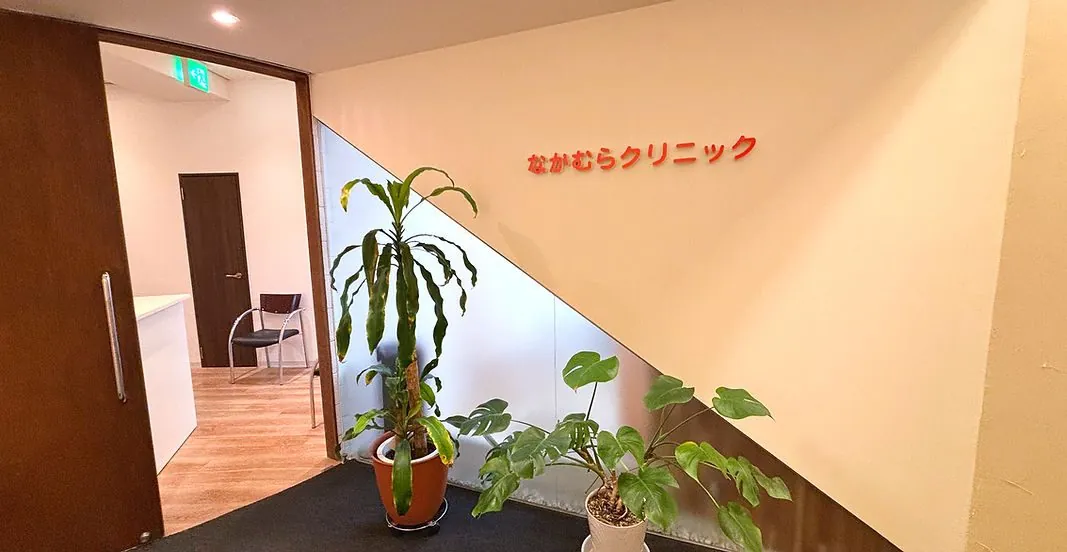
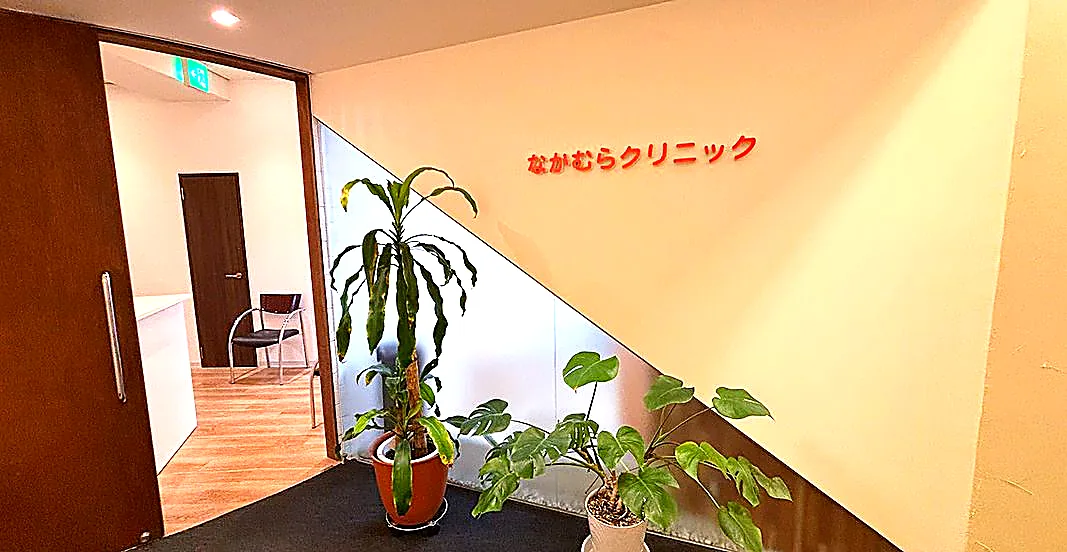
Refinement pass: 体×心 identity, ring bugfix, radical de-noise
Per Keeyo's direction:
- BADGE FIX: background shorthand was resetting background-clip — the
  filled badges' rings never rendered. Switched to background-color;
  rings + notches now visible. Badge kanji realigned: 体(内科)×心(精神科)
  across hero/cards/footer/doc-panel; 精神科 card title de-parenthesized.
- DE-NOISE: card chips removed; booking rule consolidated to ONE place
  (はじめて受診される方へ: 金曜・水曜午後・土曜午後は完全予約制); fever/
  vaccine notes digit-free; hours note plain; 代表電話 1568 removed from
  the site entirely; phone now appears at exactly 7 dialable action
  points, zero explanatory repeats.
- PHOTOS: entrance + waiting enhanced (exposure/contrast/vibrance/
  sharpness); facade retired from the page; og.jpg rebuilt from the
  entrance sign shot; waiting-band caption removed (photo speaks).
- COPY: doc quote broadened from sleep to the USP: からだとこころ、
  分けずに話せる診察室です。; why-tile-2 slimmed.
- MOBILE: sticky bar rebalanced (single-line 地図 / 1:1.7 split).

diff --git a/index.html b/index.html
@@ -109,8 +109,8 @@
   <section class="hero">
     <div class="wrap hero-grid">
       <div>
-        <div class="roundels" role="img" aria-label="内科とこころ、ひとつのクリニックで">
-          <span class="roundel r-nai">内</span>
+        <div class="roundels" role="img" aria-label="からだとこころ、ひとつのクリニックで">
+          <span class="roundel r-nai">体</span>
           <span class="roundel-link"></span>
           <span class="roundel r-shin">心</span>
         </div>
@@ -148,7 +148,7 @@
   <section class="why">
     <div class="wrap why-grid">
       <div class="why-tile"><span class="tick"></span><h3>ひとつの受付で、どちらも。</h3><p>内科も、精神科も、同じ受付・同じ待合です。動悸や眠れないなど、からだにあらわれるサインも、そのままご相談いただけます。</p></div>
-      <div class="why-tile"><span class="tick"></span><h3>予約なしで立ち寄れる</h3><p>昼休みや外出の合間に、そのまま。金曜など一部の枠は完全予約制です（受付は17:45まで）。</p></div>
+      <div class="why-tile"><span class="tick"></span><h3>予約なしで立ち寄れる</h3><p>昼休みや外出の合間に、そのまま。※ 金曜など一部の枠は完全予約制です。</p></div>
       <div class="why-tile"><span class="tick"></span><h3><span class="nowrap">本町駅</span>から<span class="nowrap num">徒歩3分</span></h3><p>カネセ中央ビル1階。通りに面した、入りやすい入口です。</p></div>
     </div>
   </section>
@@ -162,23 +162,21 @@
       </div>
       <div class="care-grid">
         <div class="care-card c-nai">
-          <div class="care-head"><span class="care-glyph">内</span><h3>一般内科</h3></div>
+          <div class="care-head"><span class="care-glyph">体</span><h3>一般内科</h3></div>
           <ul>
             <li>かぜなどの体調不良（発熱の方は「発熱外来」へ）</li>
             <li>生活習慣病（高血圧・糖尿病・脂質異常症）</li>
             <li>健診後のフォロー・健康相談</li>
           </ul>
-          <span class="chip chip-note">予約なしで受診できます（金曜など一部の枠は予約制）</span>
         </div>
         <div class="care-card c-shin">
-          <div class="care-head"><span class="care-glyph">心</span><h3>こころのご相談（精神科）</h3></div>
+          <div class="care-head"><span class="care-glyph">心</span><h3>精神科</h3></div>
           <ul>
             <li>眠れない・疲れが取れない</li>
             <li>気分が沈む・意欲が出ない</li>
             <li>休職・復職のご相談（診断書に対応）</li>
           </ul>
           <p class="safety-line">受付も待合も、内科と同じです。内科にかかるのと同じように、そのままお越しください。</p>
-          <span class="chip chip-note">お電話でのご予約がスムーズです（内科と同じ番号です）</span>
         </div>
         <div class="care-bridge">同じ院内で、同じ日に。</div>
         <div class="care-card c-netsu care-mini">
@@ -188,7 +186,7 @@
             <li>受診の流れをお電話でご案内します</li>
             <li>院内の動線に配慮して対応します</li>
           </ul>
-          <a class="note-row note-call" href="tel:0662450378">来院前に、まずお電話ください　<span class="num">06-6245-0378</span></a>
+          <div class="note-row">来院前に、まずお電話ください</div>
         </div>
         <div class="care-card c-bou care-mini">
           <div class="care-head"><span class="care-glyph">防</span><h3>各種予防接種</h3></div>
@@ -196,7 +194,7 @@
             <li>インフルエンザなど各種ワクチン</li>
             <li>種類により在庫の確認が必要です</li>
           </ul>
-          <a class="note-row note-call" href="tel:0662450378">在庫確認のため、まずお電話ください　<span class="num">06-6245-0378</span></a>
+          <div class="note-row">在庫の確認のため、事前にお電話ください</div>
         </div>
       </div>
       <p class="care-scope">症状やご相談内容に応じて、適切な医療機関のご紹介も行います。</p>
@@ -210,7 +208,6 @@
       <source srcset="photos/waiting.webp" type="image/webp">
       <img src="photos/waiting.jpg" width="1067" height="552" alt="なかむらクリニックの待合スペース。白い長椅子と木のテーブル、観葉植物のある明るい空間" loading="lazy">
     </picture>
-    <div class="caption">待合スペース — 昼休みに立ち寄れる、明るい待合です</div>
   </section>
 
   <!-- 5. 診療時間 -->
@@ -274,13 +271,14 @@
           <ul class="hours-notes">
             <li>受付は17:45まで、診察は18:00までです</li>
             <li>土曜日は第2・第4週のみ、午前は10:00から診療します</li>
-            <li>「●完全予約制」の枠では内科・精神科いずれも診療しています（<a class="note-tel" href="tel:0662450378">お電話 06-6245-0378</a> でご予約ください）</li>
+            <li>「●完全予約制」の枠では内科・精神科いずれも診療しています（お電話でご予約ください）</li>
             <li>予約なしでもそのままご来院いただけます（ご予約の方優先）</li>
             <li>休診：木曜・日曜・祝日</li>
           </ul>
           <div class="first-visit">
             <h3>はじめて受診される方へ</h3>
             <ul>
+              <li>予約なしでも受診できます（金曜・水曜午後・土曜午後は完全予約制です）</li>
               <li>保険証（マイナ保険証）をご持参ください</li>
               <li>お薬手帳や健診結果があれば、あわせてお持ちください</li>
               <li>ご予約のお電話で、症状をくわしくお話しいただく必要はありません。ご希望の日時だけでも結構です</li>
@@ -315,15 +313,15 @@
       <div class="doc-body">
         <p class="doc-ruby">いしかわ よしひろ</p>
         <p><span class="doc-name">院長　石川 賀弘</span><span class="doc-chip">内科</span></p>
-        <p class="pull-line">体調の相談のついでに、眠りのことも話せる場所に。</p>
+        <p class="pull-line">からだとこころ、分けずに話せる診察室です。</p>
         <p>お待たせしないこと。そして、診察を急がせないこと。はたらく皆さまが通いやすいクリニックであるために、この2つを大切にしています。</p>
         <p>血圧や血糖の数値のことも、最近眠れないことも、どちらも同じ受付から。気になっていることを、そのままお話しください。</p>
         <div class="doc-sub"><span class="n">精神科 担当医</span><span class="doc-chip" style="margin-left:0">精神科</span></div>
         <p class="doc-sub-line">精神科の診療は、担当医がじっくりお話をうかがいます。話す順番も、うまくまとまっているかも、気にしなくて大丈夫。内科の診察から、同じ院内でそのままご相談いただくこともできます。</p>
       </div>
       <aside class="doc-panel" aria-hidden="true">
-        <div class="roundels"><span class="roundel r-nai">内</span><span class="roundel-link"></span><span class="roundel r-shin">心</span></div>
-        <p class="doc-panel-quote">体調の相談のついでに、<br>眠りのことも話せる場所に。</p>
+        <div class="roundels"><span class="roundel r-nai">体</span><span class="roundel-link"></span><span class="roundel r-shin">心</span></div>
+        <p class="doc-panel-quote">からだとこころ、<br>分けずに話せる診察室です。</p>
       </aside>
       </div>
     </div>
@@ -337,12 +335,7 @@
         <h2 class="sec-title wood">アクセス・医院概要</h2>
       </div>
       <div class="access-grid">
-        <div>
-          <picture>
-            <source srcset="photos/facade.webp" type="image/webp">
-            <img class="ph-frame" src="photos/facade.jpg" width="1352" height="1014" alt="なかむらクリニックの外観。石張りのビル1階、すりガラスに朱色でクリニック名と電話番号" loading="lazy">
-          </picture>
-          <div class="cap-taupe">御堂筋線 本町駅から徒歩3分・路面1階</div>
+        <div class="access-side">
           <div class="route" aria-hidden="true">
             <span class="stop st-eki">駅</span><span class="leg"></span><span class="stop st-in">院</span>
           </div>
@@ -357,7 +350,7 @@
           <div class="spec-row"><dt>院長</dt><dd>石川 賀弘</dd></div>
           <div class="spec-row"><dt>診療科目</dt><dd>内科・精神科</dd></div>
           <div class="spec-row"><dt>所在地</dt><dd>〒541-0054　大阪府大阪市中央区南本町3丁目1-12<br>カネセ中央ビル1階</dd></div>
-          <div class="spec-row"><dt>電話</dt><dd><a class="tel-big" href="tel:0662450378">06-6245-0378</a>（外来直通）<small>代表電話（診療のご予約以外）：06-6245-1568</small></dd></div>
+          <div class="spec-row"><dt>電話</dt><dd><a class="tel-big" href="tel:0662450378">06-6245-0378</a>（外来直通）</dd></div>
           <div class="spec-row"><dt>最寄駅</dt><dd>Osaka Metro 御堂筋線「本町駅」徒歩3分<small>※ 専用駐車場はありません。お車の際は近隣のコインパーキングをご利用ください</small></dd></div>
           <div class="spec-row"><dt>休診日</dt><dd>木曜・日曜・祝日</dd></div>
           <div class="spec-row"><dt>処方</dt><dd>院外処方</dd></div>
@@ -407,7 +400,7 @@
     <div class="foot-name">なかむらクリニック</div>
     <div class="foot-corp">医療法人佳真会</div>
     <div class="foot-roundels" aria-hidden="true">
-      <span class="roundel r-nai">内</span>
+      <span class="roundel r-nai">体</span>
       <span class="roundel-link"></span>
       <span class="roundel r-shin">心</span>
     </div>
@@ -424,7 +417,6 @@
 <div class="mbar" id="mbar">
   <a class="m-map" href="https://www.google.com/maps/search/?api=1&query=%E5%A4%A7%E9%98%AA%E5%BA%9C%E5%A4%A7%E9%98%AA%E5%B8%82%E4%B8%AD%E5%A4%AE%E5%8C%BA%E5%8D%97%E6%9C%AC%E7%94%BA3%E4%B8%81%E7%9B%AE1-12%20%E3%82%AB%E3%83%8D%E3%82%BB%E4%B8%AD%E5%A4%AE%E3%83%93%E3%83%AB" target="_blank" rel="noopener">
     <span class="mrow"><svg viewBox="0 0 24 24" fill="none" stroke-width="1.5" stroke-linecap="square" stroke-linejoin="miter" aria-hidden="true"><path d="M12 21s-7-5.5-7-11a7 7 0 0 1 14 0c0 5.5-7 11-7 11Z"/><circle cx="12" cy="10" r="2.5"/></svg>地図</span>
-    <small>本町駅 徒歩3分</small>
   </a>
   <a class="m-call" href="tel:0662450378">
     <svg viewBox="0 0 24 24" fill="none" stroke-width="1.5" stroke-linecap="square" stroke-linejoin="miter" aria-hidden="true"><path d="M5 3h3.5l1.5 5-2.5 1.5a12.5 12.5 0 0 0 7 7L16 14l5 1.5V19a2 2 0 0 1-2 2A18 18 0 0 1 3 5a2 2 0 0 1 2-2Z"/></svg>

diff --git a/styles.css b/styles.css
@@ -106,7 +106,7 @@ section{padding-block:64px}
 /* ---------- hero ---------- */
 .hero{padding-top:48px;padding-bottom:56px}
 .hero-grid{display:grid;gap:32px}
-/* 本町バッジ: 1. LINE HUES — 内=vermilion, 心=ink, 熱=ink, 防=plant, 駅=vermilion, 院=ink;
+/* 本町バッジ: 1. LINE HUES — 体=vermilion(内科), 心=ink(精神科), 熱=ink, 防=plant, 駅=vermilion, 院=ink;
    no other hue enters a badge. 2. FILLED = walk-in department, OUTLINED double-ring =
    call-first service (mirrors the ◎/● chips — never mix). 3. Vermilion in a circle = line
    color, vermilion in a rounded rect = action; circles are never clickable, buttons are
@@ -114,9 +114,9 @@ section{padding-block:64px}
    32px except the footer pair. 5. Ring is always the disc's own hue; gap always
    transparent; no shadows; no gradients except 50/50 hard-split connectors. */
 .roundels{display:flex;align-items:center}
-.roundel{width:44px;height:44px;border-radius:50%;border-style:solid;border-width:1.5px;padding:3px;background-clip:content-box;position:relative;display:flex;align-items:center;justify-content:center;font-family:var(--font-display);font-weight:700;font-size:19px;color:#fff}
-.roundel.r-nai{background:var(--vermilion);border-color:var(--vermilion)}
-.roundel.r-shin{background:var(--ink);border-color:var(--ink)}
+.roundel{width:44px;height:44px;border-radius:50%;border-style:solid;border-width:1.5px;padding:3.5px;background-clip:content-box;position:relative;display:flex;align-items:center;justify-content:center;font-family:var(--font-display);font-weight:700;font-size:19px;color:#fff}
+.roundel.r-nai{background-color:var(--vermilion);border-color:var(--vermilion)}
+.roundel.r-shin{background-color:var(--ink);border-color:var(--ink)}
 .roundel.r-nai::after{content:"";position:absolute;right:-1.5px;top:50%;transform:translateY(-50%);width:4.5px;height:2px;background:var(--vermilion)}
 .roundel.r-shin::after{content:"";position:absolute;left:-1.5px;top:50%;transform:translateY(-50%);width:4.5px;height:2px;background:var(--ink)}
 .roundel-link{width:28px;height:2px;background:linear-gradient(90deg,var(--vermilion) 0 50%,var(--ink) 50% 100%);margin-inline:6px}
@@ -163,10 +163,10 @@ section{padding-block:64px}
 .care-card.c-netsu::before{background:var(--ink)}
 .care-card.c-bou::before{background:var(--plant)}
 .care-head{display:flex;align-items:center;gap:14px;margin-bottom:14px}
-.care-glyph{width:40px;height:40px;border-radius:50%;border-style:solid;border-width:1.5px;padding:2.5px;background-clip:content-box;position:relative;flex:none;display:flex;align-items:center;justify-content:center;font-family:var(--font-display);font-weight:700;font-size:18px;color:#fff}
+.care-glyph{width:40px;height:40px;border-radius:50%;border-style:solid;border-width:1.5px;padding:3px;background-clip:content-box;position:relative;flex:none;display:flex;align-items:center;justify-content:center;font-family:var(--font-display);font-weight:700;font-size:18px;color:#fff}
 .care-glyph::after{content:"";position:absolute;top:-1.5px;left:50%;transform:translateX(-50%);width:2px;height:4px}
-.c-nai .care-glyph{background:var(--vermilion);border-color:var(--vermilion)}
-.c-shin .care-glyph{background:var(--ink);border-color:var(--ink)}
+.c-nai .care-glyph{background-color:var(--vermilion);border-color:var(--vermilion)}
+.c-shin .care-glyph{background-color:var(--ink);border-color:var(--ink)}
 .c-netsu .care-glyph{background:transparent;border-color:var(--ink);color:var(--ink)}
 .c-bou .care-glyph{background:transparent;border-color:var(--plant);color:var(--plant)}
 .c-netsu .care-glyph::before,.c-bou .care-glyph::before{content:"";position:absolute;inset:2.5px;border:1.5px solid currentColor;border-radius:50%}
@@ -246,12 +246,13 @@ section{padding-block:64px}
 /* ---------- アクセス ---------- */
 .access-sec{background:var(--card);border-top:1px solid var(--line)}
 .access-grid{display:grid;gap:40px}
+.access-side{align-self:start}
 .ph-frame{border:1px solid var(--line-warm);border-radius:var(--radius)}
 .cap-taupe{background:rgba(168,150,132,.12);border-top:1px solid var(--line-warm);padding:8px 12px;font-size:11px;color:var(--ink-2)}
 .route{display:flex;align-items:center;gap:0;margin-top:20px}
 .route .stop{width:24px;height:24px;flex:none;border-radius:50%;border-style:solid;border-width:1px;padding:1.5px;background-clip:content-box;position:relative;display:flex;align-items:center;justify-content:center;color:#fff;font-family:var(--font-display);font-weight:700;font-size:10px}
-.route .st-eki{background:var(--vermilion);border-color:var(--vermilion)}
-.route .st-in{background:var(--ink);border-color:var(--ink)}
+.route .st-eki{background-color:var(--vermilion);border-color:var(--vermilion)}
+.route .st-in{background-color:var(--ink);border-color:var(--ink)}
 .route .leg{flex:1;max-width:64px;height:2px;background:linear-gradient(90deg,var(--vermilion) 0 50%,var(--ink) 50% 100%)}
 .route-labels{display:flex;justify-content:space-between;max-width:280px;font-size:12px;color:var(--ink-2);margin-top:6px}
 .map-btn{margin-top:20px;width:100%}
@@ -261,7 +262,7 @@ section{padding-block:64px}
 .spec-row dd{color:var(--ink)}
 .spec-row .tel-big{font-family:var(--font-body);font-feature-settings:'tnum';font-weight:700;font-size:20px;color:var(--vermilion-text);text-decoration:none;white-space:nowrap}
 .spec-row small{display:block;font-size:12px;color:var(--ink-2)}
-@media (min-width:768px){.access-grid{grid-template-columns:7fr 5fr;gap:48px}}
+@media (min-width:768px){.access-grid{grid-template-columns:5fr 7fr;gap:48px}.access-grid .access-side{order:2}.access-grid .spec-list{order:1}}
 
 /* ---------- 施設基準 ---------- */
 .kijun{padding-block:32px 48px}
@@ -292,9 +293,9 @@ footer{background:var(--ink);color:var(--paper);padding:48px 0 48px}
 @media (max-width:767px){footer{padding-bottom:110px}}
 
 /* ---------- sticky mobile bar ---------- */
-.mbar{position:fixed;left:0;right:0;bottom:0;z-index:110;background:var(--card);border-top:1px solid var(--line);box-shadow:0 -4px 16px rgba(23,23,28,.10);padding:8px;padding-bottom:calc(8px + env(safe-area-inset-bottom));display:none;grid-template-columns:34fr 66fr;gap:8px;transform:translateY(110%);transition:transform .2s}
+.mbar{position:fixed;left:0;right:0;bottom:0;z-index:110;background:var(--card);border-top:1px solid var(--line);box-shadow:0 -4px 16px rgba(23,23,28,.10);padding:8px;padding-bottom:calc(8px + env(safe-area-inset-bottom));display:none;grid-template-columns:1fr 1.7fr;gap:8px;transform:translateY(110%);transition:transform .2s}
 .mbar.show{transform:translateY(0)}
-.mbar .m-map{display:flex;flex-direction:column;align-items:center;justify-content:center;gap:2px;border:1.5px solid var(--ink);border-radius:var(--radius-cta);text-decoration:none;color:var(--ink);min-height:48px;font-family:var(--font-display);font-weight:700;font-size:14px}
+.mbar .m-map{display:flex;align-items:center;justify-content:center;border:1.5px solid var(--ink);border-radius:var(--radius-cta);text-decoration:none;color:var(--ink);min-height:48px;font-family:var(--font-display);font-weight:700;font-size:14px}
 .mbar .m-map small{font-size:11px;font-weight:400;color:var(--ink-2)}
 .mbar .m-map .mrow{display:flex;align-items:center;gap:6px}
 .mbar .m-map svg{width:16px;height:16px;stroke:currentColor}
